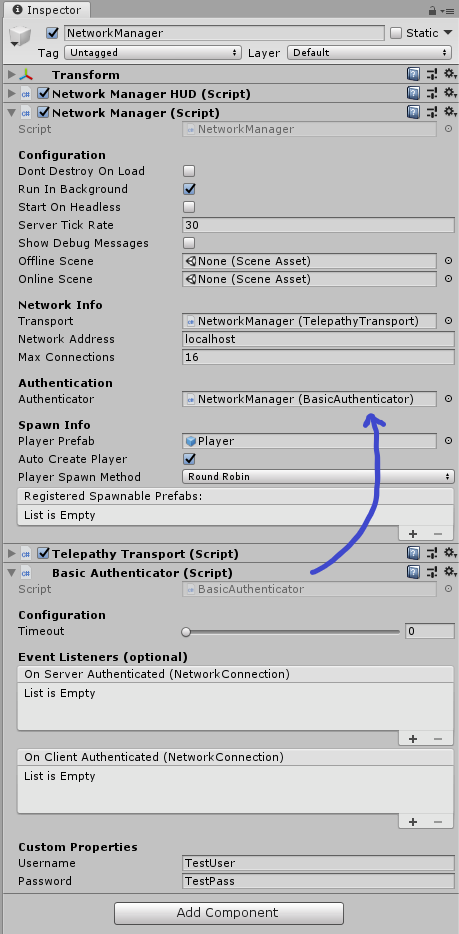
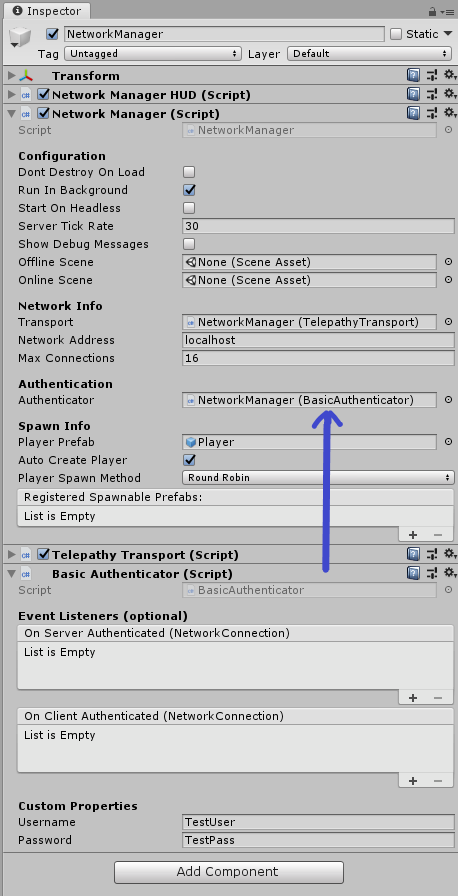
Revert "feat: Add Timeout to NetworkAuthenticator (#1091)"
This reverts commit e8cc9ba27b445e160341a893785e9f7113a40ed7.

Changed region(s): [[0.0, 0.0, 1.0, 1.0]]

diff --git a/Assets/Mirror/Runtime/NetworkAuthenticator.cs b/Assets/Mirror/Runtime/NetworkAuthenticator.cs
@@ -1,5 +1,4 @@
 using System;
-using System.Collections;
 using UnityEngine;
 using UnityEngine.Events;
 
@@ -16,11 +15,6 @@ namespace Mirror
     [HelpURL("https://mirror-networking.com/docs/Guides/Authentication.html")]
     public abstract class NetworkAuthenticator : MonoBehaviour
     {
-        [Header("Configuration")]
-
-        [Range(0, 255), Tooltip("Timeout to auto-disconnect in seconds. Set to 0 for no timeout.")]
-        public byte timeout;
-
         [Header("Event Listeners (optional)")]
 
         /// <summary>
@@ -46,9 +40,6 @@ namespace Mirror
         // This will get more code in the near future
         internal void OnServerAuthenticateInternal(NetworkConnection conn)
         {
-            // Start the countdown for Authentication
-            if (timeout > 0) StartCoroutine(AuthenticationTimer(conn, true));
-
             OnServerAuthenticate(conn);
         }
 
@@ -57,16 +48,6 @@ namespace Mirror
         /// </summary>
         /// <param name="conn">Connection to client.</param>
         public abstract void OnServerAuthenticate(NetworkConnection conn);
-
-        /// <summary>
-        /// Called on server when the timeout expires without being authenticated
-        /// </summary>
-        /// <param name="conn">Connection to client.</param>
-        public virtual void OnServerAuthenticationTimeout(NetworkConnection conn)
-        {
-            Debug.LogErrorFormat("OnServerAuthenticationTimeout: {0}", conn);
-            conn.Disconnect();
-        }
 
         #endregion
 
@@ -81,9 +62,6 @@ namespace Mirror
         // This will get more code in the near future
         internal void OnClientAuthenticateInternal(NetworkConnection conn)
         {
-            // Start the countdown for Authentication
-            if (timeout > 0) StartCoroutine(AuthenticationTimer(conn, false));
-
             OnClientAuthenticate(conn);
         }
 
@@ -93,38 +71,7 @@ namespace Mirror
         /// <param name="conn">Connection of the client.</param>
         public abstract void OnClientAuthenticate(NetworkConnection conn);
 
-        /// <summary>
-        /// Called on client when the timeout expires without being authenticated
-        /// </summary>
-        /// <param name="conn">Connection of the client.</param>
-        public virtual void OnClientAuthenticationTimeout(NetworkConnection conn)
-        {
-            Debug.LogErrorFormat("OnClientAuthenticationTimeout: {0}", conn);
-            conn.Disconnect();
-        }
-
         #endregion
-
-        /// <summary>
-        /// This is called on both client and server if timeout > 0
-        /// </summary>
-        /// <param name="conn">Connection of the client.</param>
-        public IEnumerator AuthenticationTimer(NetworkConnection conn, bool isServer)
-        {
-            if (LogFilter.Debug) Debug.LogFormat("Authentication countdown started {0} {1}", conn.connectionId, timeout);
-
-            yield return new WaitForSecondsRealtime(timeout);
-
-            if (conn != null && !conn.isAuthenticated)
-            {
-                if (LogFilter.Debug) Debug.LogFormat("Authentication Timeout {0}", conn.connectionId);
-
-                if (isServer)
-                    OnServerAuthenticationTimeout(conn);
-                else
-                    OnClientAuthenticationTimeout(conn);
-            }
-        }
 
         void OnValidate()
         {

diff --git a/doc/Guides/Authentication.md b/doc/Guides/Authentication.md
@@ -49,7 +49,6 @@ To make your own custom Authenticator, you can just create a new script in your 
 Here are some tips for custom Authenticators:
 
 -   `OnStartServer` and `OnStartClient` are the appropriate methods to register server and client messages and their handlers. They're called from StartServer/StartHost, and StartClient, respectively.
--   The base Authenticator includes a timeout feature so you can prevent rogue clients from locking up your connections.
 -   Send a message to the client if authentication fails, especially if there's some issue they can resolve.
 -   Call the `Disconnect()` method of the `NetworkConnection` on the server and client when authentication fails. If you want to give the user a few tries to get their credentials right, you certainly can, but Mirror will not do the disconnect for you.
     -   Remember to put a small delay on the Disconnect call on the server if you send a failure message so that it has a chance to be delivered before the connection is dropped.
